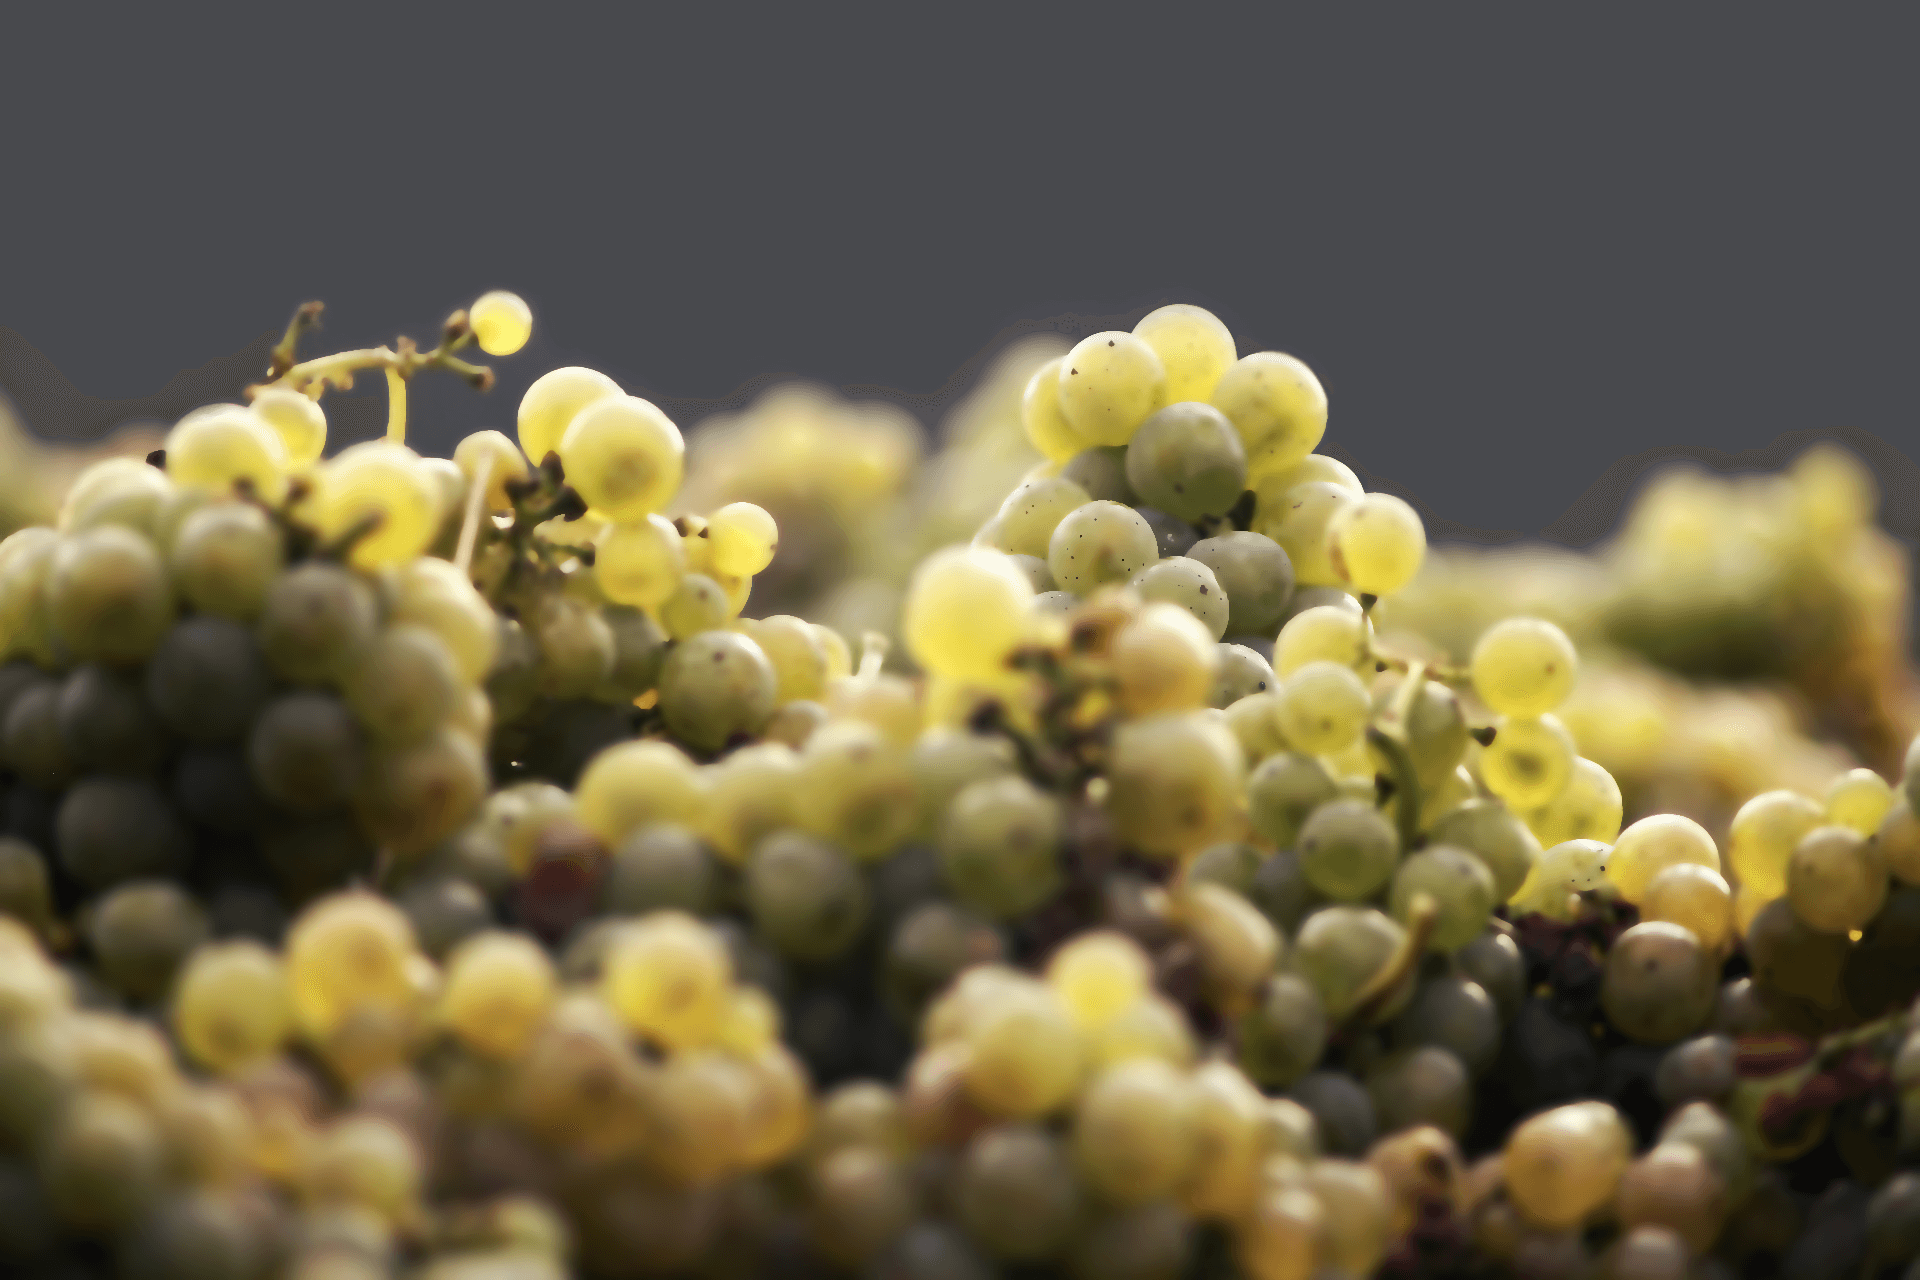
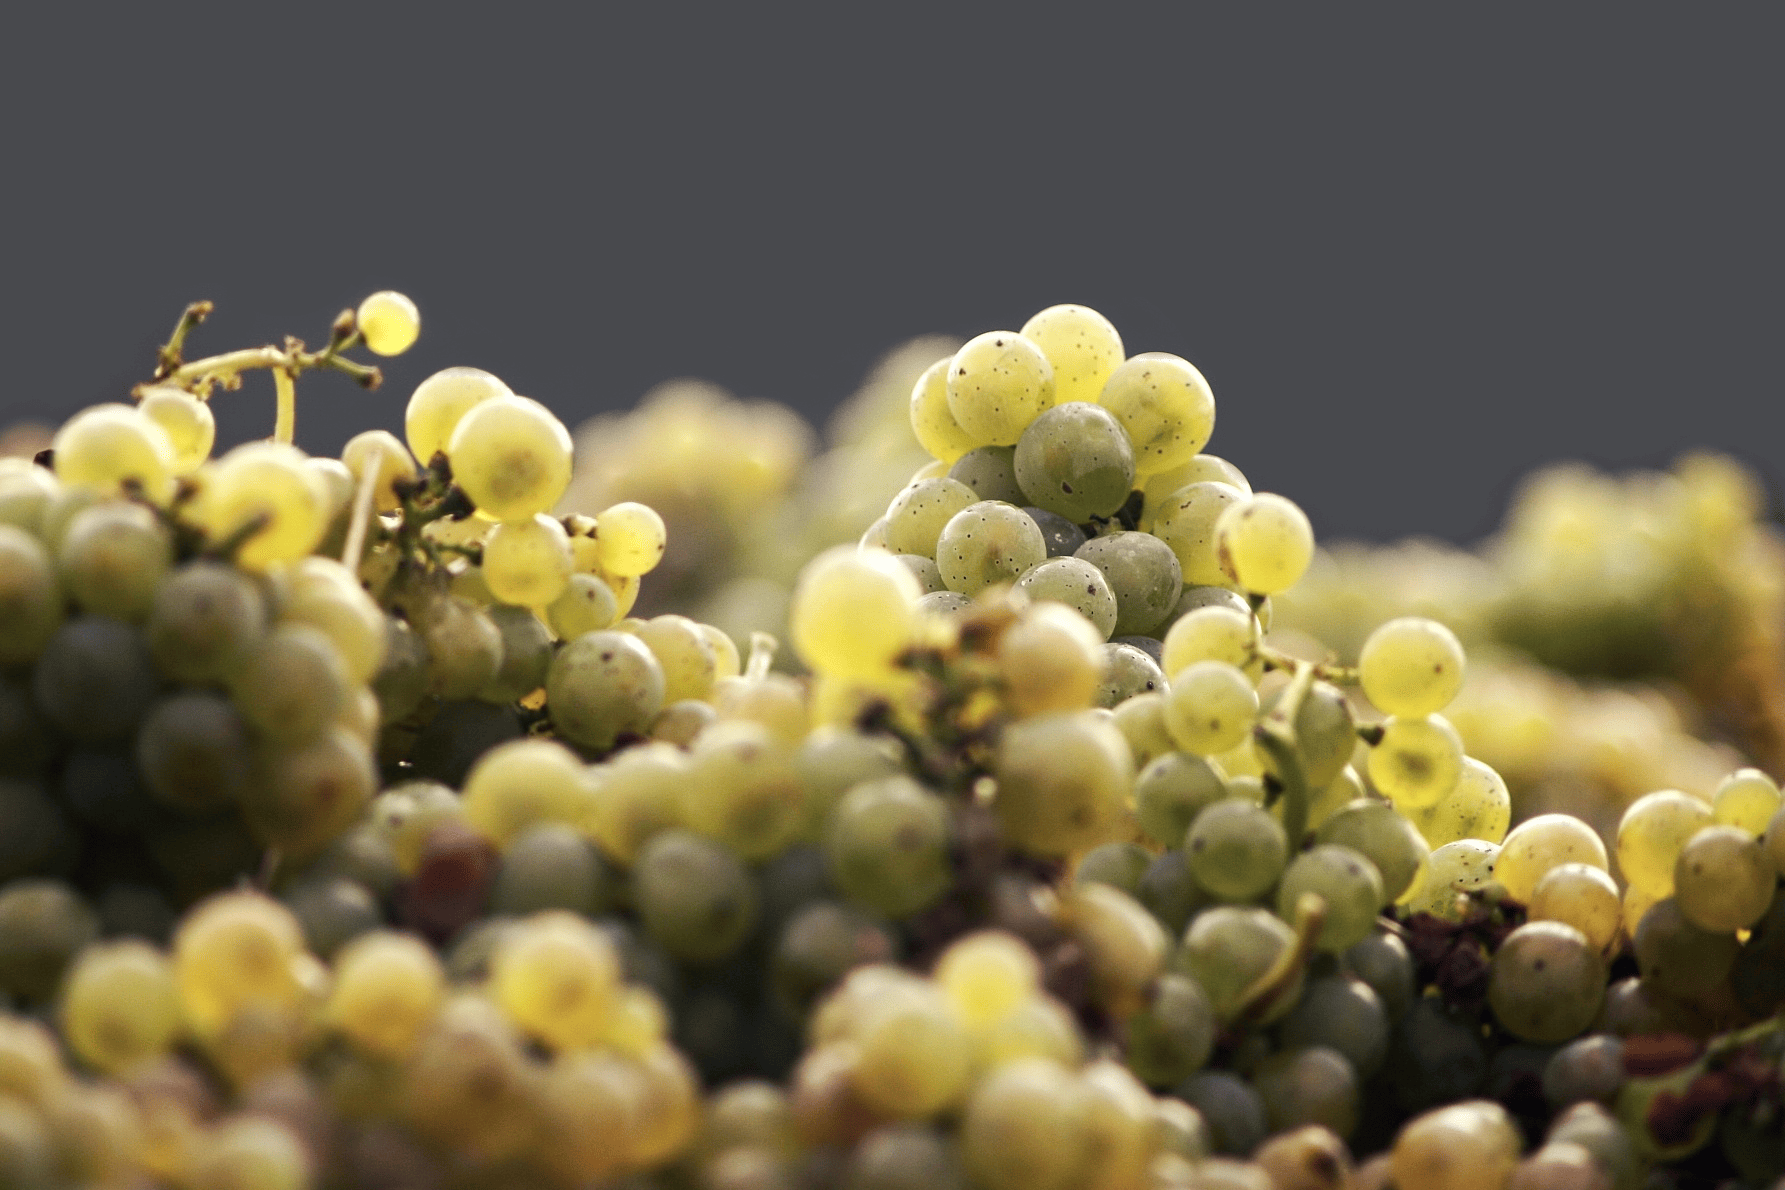
Add hero image

diff --git a/assets/css/style.css b/assets/css/style.css
@@ -21,7 +21,7 @@ h1, h2 {
 }
 
 #logo {
-    line-height: 80px;
+    line-height: 75px;
     float: left;
     text-decoration: none;
 }
@@ -58,4 +58,13 @@ h1, h2 {
 
 .active {
     border-bottom: 1px solid #DBC8BD;
+}
+
+/* hero image */
+
+#hero-image {
+    height: 740px;
+    width: 100%;
+    background: url('../images/grapes-header.png');
+    object-fit: scale-down;
 }

diff --git a/index.html b/index.html
@@ -37,7 +37,9 @@
     </header>
 
     <section>
-        Hero image
+        <div id="hero-image">
+            
+        </div>
     </section>
 
     <section>
